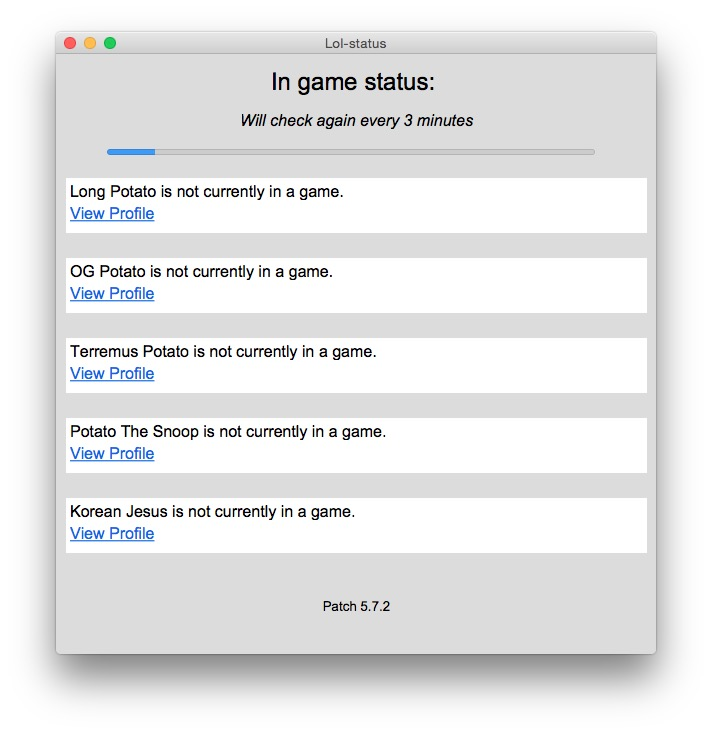
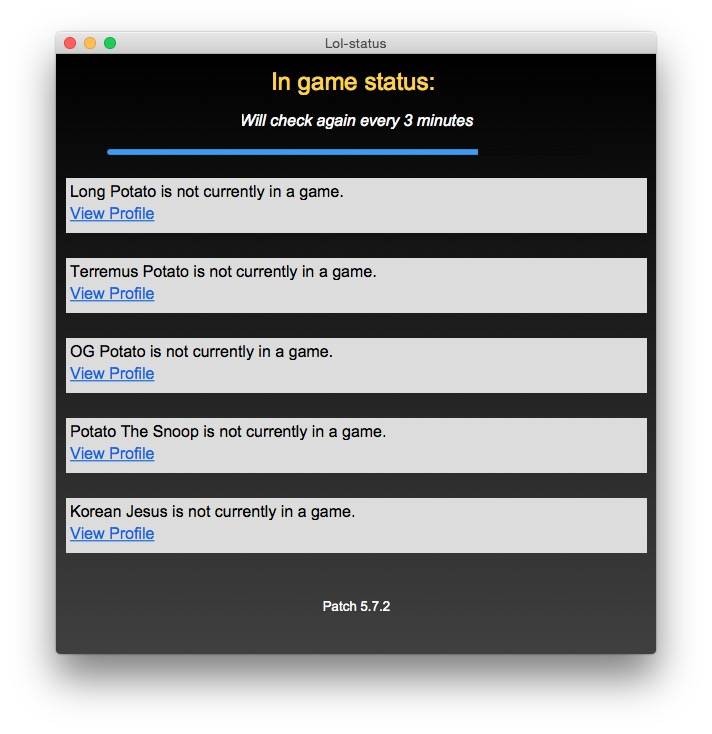
V1.1.1: Change background color, new pics, update README.md

diff --git a/README.md b/README.md
@@ -18,8 +18,8 @@ The GUI was built by using [Ruby Shoes](http://shoesrb.com) toolkit.
 
 ###Download:
 
-* [Mac OS](http://1drv.ms/1DtP3vl)
-* [Windows](http://1drv.ms/1DtPaXM)
+* [Mac OS](http://1drv.ms/1azOUeh)
+* [Windows](http://1drv.ms/1azOYuC)
 
 *First time installation may take serveral minutes. Require [Shoes](http://shoesrb.com/downloads/) to interpret the package file (fyi).*
 
@@ -33,15 +33,15 @@ The GUI was built by using [Ruby Shoes](http://shoesrb.com) toolkit.
 
 2. Summoner search is case and space insensitive. That means you can freely type anything, no need to worry about spaces and capital letters in the name.
 
-3. Search up to 5 summoners. Well, you can type more than 5 but it will only display 5 lel. Use commas to separate summoners names.
+3. Search up to 5 summoners. Well, you can type more than 5 but it will only display 5, lel. Use commas to separate summoners names.
 
-4. It's not freezing! It's LOADING!. Retrieving information from Rito's server takes time, so go grab a snack or something.
+4. It's not freezing! It's LOADING!. Retrieving information from Rito's server takes time, so you have plenty of time to practice blinking eyes.
 
-5. Keep both windows open please! Handsfree needs both to run.
+5. Keep both windows open please! Handsfree transfers information between these windows. It needs both to run.
 
 6. Save your summoner names to a local text file for your convenience. The next time you fire up the program, just load in the file, no need to set up region or type in names! 
 
-7. Boom! sit back and enjoy stalking people, because of handsfree no need to use your hands ;)
+7. Boom! sit back and enjoy stalking people. With the help of Handsfree looping feature, your hands are free from typing, use it for something else ;)
 
 ----
 
@@ -51,16 +51,16 @@ The GUI was built by using [Ruby Shoes](http://shoesrb.com) toolkit.
 
 ![2](https://raw.githubusercontent.com/LongPotato/Lol-status/master/pics/pic2.jpg)
 
-![3](https://github.com/LongPotato/Lol-status/blob/master/pics/p3.jpg)
+![3](https://raw.githubusercontent.com/LongPotato/Lol-status/master/pics/pic3.jpg)
 
-![4](https://github.com/LongPotato/Lol-status/blob/master/pics/pic4.jpg)
+![4](https://raw.githubusercontent.com/LongPotato/Lol-status/master/pics/pic4.jpg)
 
 
 ###A little note about the codes:
 
-  This github is where I share my programming projects. I want to note that the GUI file for this program, [`lol-status`](https://github.com/LongPotato/Lol-status/blob/master/lib/lol-status.rb) is very messy, and have bad code practices: such as overuse of global variables, repeated codes...
+  This github is where I share my programming projects. I want to note that eventhough the program runs fine, the GUI file for this program, [`lol-status`](https://github.com/LongPotato/Lol-status/blob/master/lib/lol-status.rb) is very messy, and have bad code practices: such as overuse of global variables, repeated codes...
 
-  Ruby Shoes itself has different elements, code blocks that refer to different 'self' objects. Therefore if a variable goes out of scope even if it is initialized, it will be lost. I did not plan ahead to prepare my command line codes for this issue and I was too eager to make the GUI to work as soon as possible. The fastest way that I choses to approach this problem is to make variables become class variables. Which act as global variables, never change between objects. In my opinion it's a bad habit.
+  Ruby Shoes itself has different elements, code blocks that refer to different 'self' objects. Therefore if a variable goes out of scope even if it is initialized, it will be lost. I did not plan ahead to prepare my command line codes for this issue and I was too eager to make the GUI to work as soon as possible. The fastest way that I chose to approach this problem is to make variables become class variables. Which act as global variables, never change between objects. In my opinion it's a bad habit.
 
   If you want to get an idea of how this program works. I suggest looking at the [`lol-com.rb`](https://github.com/LongPotato/Lol-status/blob/master/lib/lol-com.rb) file. It's way simpler and emphasizes the main functionalities.
 
@@ -70,20 +70,7 @@ The GUI was built by using [Ruby Shoes](http://shoesrb.com) toolkit.
   $ ruby lol-com.rb
   ```
 
-
-
-
 GG easy!
 
 
 *Lol-status is intended for personal use. This program isn’t endorsed by Riot Games and doesn’t reflect the views or opinions of Riot Games or anyone officially involved in producing or managing League of Legends. League of Legends and Riot Games are trademarks or registered trademarks of Riot Games, Inc. League of Legends © Riot Games, Inc.*
-
-
-
-
-
-
-
-
-
-
